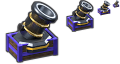
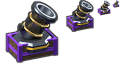
DA-ICONES : contre-relecture, 14 icones reprises en un passage (dont 4 encore fautives)
Corrigees : controleur (couvercle lisse, connecteur trapezoidal, un cable noir), kit Aileron (sorti de la caisse sur berceau,
nez releve), segment Torique (4 troncons separes a grand rayon), segment Heliaste (3 panneaux en Z, crochet magenta), violet du
Hall a 270 degres (#913CE6) sur les kits Aiguille, Cloche, Chanfrein et les technologies bay, bellwether, mortar.
ENCORE FAUTIVES (planche fo-logs/2026-11-04_DA-ICONES/controle-2.png) : module laser (faisceau toujours en cone saumon),
oscillateur (disque de quartz incline rendu sombre), Ecaille kit et technologie heavy (regression : flancs orange decouverts).
robotique_icones_test 258 OK ; icones.py --manifeste 0 ecart.

diff --git a/tools/render/pieces/robotique/rq_kits.py b/tools/render/pieces/robotique/rq_kits.py
@@ -61,27 +61,33 @@ def _plaque(p, n, t, dims, m, inclinaison=14.0):
     return o
 
 
-def sig_ecaille(L=5.0, R=1.35):
-    """LONG corps cuirassé (environ 2 fois plus long que large, critique : un dôme faisait une tortue), dos en dos d'âne : bandes
-    d'écailles d'acier et de cuivre, joints orange incandescents ENTRE les bandes, bloc de nez à l'avant (+x), crête à pointes."""
-    a, c = L / 2, R * 1.05
-    corps = SPH(1.0, 0, 0, 0, lum("joint_orange", force=0.9), seg=48, rings=24)
-    corps.scale = (a * 0.97, R * 0.97, c * 0.97)
-    nb, nk = 7, 7
+def sig_ecaille(L=5.2, R=1.35):
+    """Long corps cuirassé à FLANCS DROITS (section en superellipse), dos d'âne : bandes d'écailles d'ACIER dominantes, cuivre en
+    rappel, joints orange entre les bandes, CRÊTE d'écailles pointues sur l'échine, bloc de nez à l'avant (+x) (contre-relecture :
+    un pain cuivré à bandes, une grenade)."""
+    a, c, n, m = L / 2, R * 1.05, 4.0, 5.0
+    B(L * 0.9, 2 * R * 0.94, c * 1.85, 0, 0, -c * 0.92, lum("joint_orange", force=0.9), bev=0.45)
+
+    def ext(x):
+        return max(0.08, (1 - abs(x / a) ** m)) ** (1 / m)
+    nb, nk = 8, 8
+    mats = ("ecaille", "ecaille", "cuivre", "ecaille")
     for i in range(nb):
         x = -a + (i + 0.5) * (2 * a / nb)
-        f = math.sqrt(max(0.05, 1 - (x / a) ** 2))
-        m = ("ecaille", "cuivre", "ecaille_rouille")[i % 3]
+        f = ext(x)
         for k in range(nk):
-            phi = math.radians(12 + k * 26)
-            p = Vector((x, R * f * math.cos(phi), c * f * math.sin(phi)))
-            nv = Vector((x / a ** 2, p.y / R ** 2, p.z / c ** 2))
-            tv = Vector((0.0, -math.sin(phi), math.cos(phi)))
-            _plaque(p, nv, tv, (max(0.3, R * f * 0.47), (2 * a / nb) * 0.9, 0.14), m, inclinaison=12)
-        lathe([(0.2, 0.0), (0.0, 0.5)], x, 0, c * f + 0.08, "fonte", verts=4, lisse=False)
-    B(0.9, 1.7, 1.5, a - 0.25, 0, -0.55, "fonte", bev=0.16)
+            phi = math.radians(8 + k * (164 / (nk - 1)))
+            cs, sn = math.cos(phi), math.sin(phi)
+            y = R * f * math.copysign(abs(cs) ** (2 / n), cs)
+            z = c * f * abs(sn) ** (2 / n)
+            nv = Vector((0.0, math.copysign(abs(y / R) ** (n - 1), y) / R, abs(z / c) ** (n - 1) / c)).normalized()
+            tv = Vector((0.0, -nv.z, nv.y))
+            _plaque(Vector((x, y, z)), nv, tv, (0.62 * f + 0.12, (2 * a / nb) * 0.9, 0.15), mats[i % 4], inclinaison=12)
+        o = lathe([(0.3, 0.0), (0.0, 0.75)], x, 0, c * f + 0.05, "ecaille", verts=4, lisse=False, phase=0.785)
+        o.rotation_euler = (0, math.radians(-22), 0)
+    B(0.95, 1.9, 1.6, a - 0.15, 0, -0.75, "fonte", bev=0.16)
     for s in (-1, 1):
-        B(0.06, 0.34, 0.14, a + 0.21, s * 0.42, 0.25, lum("joint_orange", force=1.4), bev=0)
+        B(0.06, 0.34, 0.14, a + 0.34, s * 0.45, 0.2, lum("joint_orange", force=1.4), bev=0)
 
 
 def sig_bobineur():
@@ -369,7 +375,7 @@ KIT = {
     "bellwether": (1.2, 0.0, -0.9, (0, 0, 0)),
     "chamfer": (1.15, 0.0, -0.95, (0, 0, 0)),
     "trowel": (1.15, 0.0, -0.6, (0, 0, 0)),
-    "finback": (1.0, 0.0, -0.05, (0, -10, -24)),
+    "finback": (1.0, 0.0, 1.3, (0, -25, -24)),
     "levite": (1.1, 0.0, -0.7, (0, 0, 0)),
     "toroid": (0.95, 0.0, -0.45, (0, 0, 0)),
     "heliast": (1.0, 0.0, -0.75, (0, 0, -6)),
@@ -377,9 +383,21 @@ KIT = {
 }
 
 
+def berceau_aileron(H, dz, s):
+    """Berceau du kit Aileron : 2 montants sombres de la caisse au ventre de l'avion (nez relevé de 25°, lacet de -24°)."""
+    cp, sp = math.cos(math.radians(25)), math.sin(math.radians(25))
+    cl, sl = math.cos(math.radians(-24)), math.sin(math.radians(-24))
+    for x in (-0.7, 0.7):
+        px, haut = s * x * cp, H + dz + s * (x * sp - 0.5)
+        B(0.24, 0.24, haut - (H - 0.1), px * cl, px * sl, H - 0.1, "titane_sombre", bev=0.04)
+        B(0.6, 0.5, 0.12, px * cl, px * sl, haut - 0.06, "titane_sombre", bev=0.03)
+
+
 def kit(rid):
     s, dx, dz, rot = KIT[rid]
     H = caisse(FAMILLE[rid])
+    if rid == "finback":
+        berceau_aileron(H, dz, s)
     pivoter(capte(SIGNATURES[rid]), rot=rot, loc=(dx, 0, H + dz), s=s)
 
 
@@ -396,31 +414,35 @@ def anneau_levage(x, y, z):
 
 
 def seg_torique():
-    """Quart d'anneau du Torique, vu de 3/4 au-dessus (critique : un coude de tuyau noir) : 4 tronçons à cuivre dominant (cuivre,
-    noir, cuivre, cuivre), bagues roses lumineuses aux joints, brides boulonnées aux 2 bouts, anneau de levage magenta."""
-    R, a0, a1, rt = 5.0, math.radians(-36), math.radians(36), 0.75
-    cyc = ("cuivre", "noir_mat", "cuivre", "cuivre")
-    rose = lum("rose_tore", force=1.3)
+    """Un cinquième du tore du Torique, à grand rayon (courbure douce), vu de 3/4 par-dessus : 4 tronçons SÉPARÉS, courts et épais
+    (cuivre, noir, rose allumé, cuivre), joints visibles sur une âme sombre, brides boulonnées aux 2 bouts, crochet magenta au
+    milieu (contre-relecture : un coude de tuyau)."""
+    R, a0, a1, rt = 5.5, math.radians(-36), math.radians(36), 0.95
+    cyc = ("cuivre", "noir_mat", lum("rose_tore", force=1.35), "cuivre")
     n = len(cyc)
-    L = R * (a1 - a0) / n
-    for k in range(n):
-        a = a0 + (k + 0.5) * (a1 - a0) / n
-        P.S.cylinder(rt, L * 0.96, (R * math.cos(a) - R, R * math.sin(a), rt), P.mat(cyc[k]), verts=40,
-                     rot=(0, math.radians(90), a + math.pi / 2), bevel_w=0.04)
+    pas = (a1 - a0) / n
     for k in range(1, n):
-        a = a0 + k * (a1 - a0) / n
-        TOR(rt + 0.03, 0.09, R * math.cos(a) - R, R * math.sin(a), rt, rose, rot=(0, 90, math.degrees(a) + 90), minor=10)
+        a = a0 + k * pas
+        P.S.cylinder(rt * 0.55, R * pas * 0.4, (R * math.cos(a) - R, R * math.sin(a), rt), P.mat("fonte"), verts=24,
+                     rot=(0, math.radians(90), a + math.pi / 2), bevel_w=0.02)
+    for k in range(n):
+        a = a0 + (k + 0.5) * pas
+        mat = cyc[k] if not isinstance(cyc[k], str) else P.mat(cyc[k])
+        P.S.cylinder(rt, R * pas * 0.78, (R * math.cos(a) - R, R * math.sin(a), rt), mat, verts=40,
+                     rot=(0, math.radians(90), a + math.pi / 2), bevel_w=0.06)
     for a, sens in ((a0, -1), (a1, 1)):
         cx, cy = R * math.cos(a) - R, R * math.sin(a)
         t = Vector((-math.sin(a), math.cos(a), 0.0)) * sens
         u = Vector((math.cos(a), math.sin(a), 0.0))
-        P.S.cylinder(rt + 0.32, 0.24, (cx, cy, rt), P.mat("fonte"), verts=40, rot=(0, math.radians(90), a + math.pi / 2), bevel_w=0.04)
+        P.S.cylinder(rt + 0.3, 0.26, (cx + t.x * 0.05, cy + t.y * 0.05, rt), P.mat("fonte"), verts=40,
+                     rot=(0, math.radians(90), a + math.pi / 2), bevel_w=0.04)
         for j in range(8):
             b = 2 * math.pi * j / 8
-            q = Vector((cx, cy, rt)) + (u * math.cos(b) + Vector((0, 0, 1)) * math.sin(b)) * (rt + 0.18) + t * 0.14
-            SPH(0.09, q.x, q.y, q.z, "vis", seg=10, rings=6)
-    anneau_levage(0.0, 0, 2 * rt - 0.05)
-    pivoter(list(P.S.piece_objects()), rot=(0, 0, 45))
+            q = Vector((cx, cy, rt)) + (u * math.cos(b) + Vector((0, 0, 1)) * math.sin(b)) * (rt + 0.16) + t * 0.2
+            SPH(0.1, q.x, q.y, q.z, "vis", seg=10, rings=6)
+    TOR(rt * 0.62, 0.14, 0.0, 0.0, rt, "peint_magenta", rot=(0, 90, 90), minor=10)
+    anneau_levage(0.0, 0.0, rt * 1.55)
+    pivoter(list(P.S.piece_objects()), rot=(0, 0, 80))
 
 
 def panneau_epais(w, d, ep=0.22):
@@ -436,8 +458,8 @@ def panneau_epais(w, d, ep=0.22):
 def seg_heliaste():
     """Aile solaire repliée en ACCORDÉON (critique : un panneau plat se confondait avec le panneau solaire vanilla) : 3 panneaux
     épais en zigzag (silhouette en W), charnières d'or, longeron d'or dessous, anneau de levage magenta sur le longeron."""
-    d, prof, ang = 1.75, 3.0, math.radians(38)
-    pts = [(-2.1, 0.75)]
+    d, prof, ang = 1.7, 2.4, math.radians(46)
+    pts = [(-2.0, 0.75)]
     for i in range(3):
         sgn = 1 if i % 2 == 0 else -1
         x0, z0 = pts[-1]
@@ -448,12 +470,12 @@ def seg_heliaste():
         pivoter(capte(panneau_epais, d, prof), rot=(0, -tilt, 0), loc=((x0 + x1) / 2, 0, (z0 + z1) / 2))
     for (x, z) in pts[1:3]:
         CYX(0.15, prof + 0.15, x, 0, z + 0.1, "or", axe="y", verts=16)
-    xa, xb = pts[0][0] - 0.2, pts[-1][0] + 0.2
+    xa, xb = pts[0][0] - 0.3, pts[-1][0] + 1.3
     B(xb - xa, 0.5, 0.42, (xa + xb) / 2, 0, -0.1, "or", bev=0.06)
     for (x, z) in (pts[0], pts[2]):
         B(0.24, 0.24, z, x, 0, 0.0, "or_sombre", bev=0.03)
-    anneau_levage(xb - 0.5, -0.1, 0.32)
-    pivoter(list(P.S.piece_objects()), rot=(0, 0, 22))
+    anneau_levage(xb - 0.55, 0.0, 0.32)
+    pivoter(list(P.S.piece_objects()), rot=(0, 0, 8))
 
 
 def seg_couronne():

diff --git a/tools/render/pieces/robotique/rq_pieces.py b/tools/render/pieces/robotique/rq_pieces.py
@@ -131,25 +131,27 @@ def ic_optical_sensor():
 
 
 def controleur():
-    """Boîtier de commande (REFAIT, critique : la carte verte se confondait avec la carte imprimée et la carte mère) : boîte
-    plate en alu à ailettes, gros connecteur multibroche noir en façade, 2 voyants, court faisceau de 3 fils (écho du servo)."""
+    """Boîtier de commande : boîte plate en alu à COUVERCLE LISSE (plaque d'étiquette en relief), pattes de fixation, GROS
+    connecteur noir trapézoïdal multibroche en façade d'où sort UN câble noir épais, 2 voyants (contre-relecture : les ailettes
+    et les 3 fils colorés le confondaient avec le radiateur et le commutateur réseau du calcul)."""
     B(4.4, 3.0, 1.25, 0, 0, 0, "alu_brosse", bev=0.16)
-    for k in range(7):
-        B(0.18, 2.3, 0.36, -1.5 + k * 0.5, 0.25, 1.25, "alu_sombre", bev=0.03)
+    B(2.6, 1.5, 0.07, -0.3, 0.35, 1.25, "etiquette", bev=0.02)
+    for k in range(3):
+        B(1.8 - k * 0.4, 0.1, 0.02, -0.55 + k * 0.2, 0.62 - k * 0.27, 1.32, "marquage", bev=0)
     for sx in (-1, 1):
         B(0.75, 3.4, 0.16, sx * 2.45, 0, 0, "alu_sombre", bev=0.03)
         for sy in (-1, 1):
             CY(0.13, 0.2, sx * 2.55, sy * 1.35, 0.0, "fond_noir", verts=12, bev=0)
-    B(2.5, 0.6, 0.9, -0.55, -1.7, 0.16, "noir_mat", bev=0.08)
-    B(2.1, 0.08, 0.6, -0.55, -2.0, 0.31, "fond_noir", bev=0)
-    for row in range(2):
-        for k in range(7):
-            B(0.13, 0.06, 0.13, -1.37 + k * 0.27, -2.04, 0.41 + row * 0.24, "or", bev=0)
-    B(0.34, 0.12, 0.34, 1.15, -1.53, 0.5, "voyant_vert", bev=0.03)
-    B(0.34, 0.12, 0.34, 1.7, -1.53, 0.5, "voyant_ambre", bev=0.03)
-    B(1.2, 0.04, 0.16, 1.42, -1.52, 0.95, "marquage", bev=0)
-    for i, c in enumerate(("cable_rouge", "cable_gris", "cable_jaune")):
-        tube([(-1.3 + i * 0.4, -2.05, 0.62), (-1.45 + i * 0.4, -2.7, 0.55), (-2.0 + i * 0.35, -3.1, 0.1)], 0.1, c)
+    trap = [(-1.35, 0.0), (1.35, 0.0), (1.1, 0.95), (-1.1, 0.95)]
+    o = prisme("connecteur", trap, 0.62, "noir_mat", z=1.5, bev=0.06)
+    o.rotation_euler = (math.radians(90), 0, 0)
+    o.location = (-0.55, 0, 0.16)
+    for row, n in ((0, 8), (1, 7)):
+        for k in range(n):
+            B(0.13, 0.06, 0.13, -0.55 - (n - 1) * 0.135 + k * 0.27, -2.14, 0.38 + row * 0.32, "or", bev=0)
+    B(0.34, 0.12, 0.34, 1.2, -1.53, 0.5, "voyant_vert", bev=0.03)
+    B(0.34, 0.12, 0.34, 1.75, -1.53, 0.5, "voyant_ambre", bev=0.03)
+    tube([(-1.95, -1.85, 0.55), (-2.3, -2.6, 0.4), (-2.6, -3.25, 0.05)], 0.2, "cable_gris", res=8)
 
 
 def ic_controller():
@@ -221,8 +223,10 @@ def ic_ndyag_rod():
     pivoter(capte(barreau), rot=(0, -10, 30))
 
 
-def tete_laser(faisceau=1.6):
-    """Module laser (axe x, nez vers +x) : culasse à ailettes, 2 bobines de cuivre, nez chromé, lentille rouge, faisceau rouge."""
+def tete_laser(faisceau=1.6, rayon0=0.38, nez=1.15, lueur=False):
+    """Module laser (axe x, nez vers +x) : culasse à ailettes, 2 bobines de cuivre, nez chromé, lentille rouge, faisceau rouge.
+    lueur : faisceau fin et saturé avec une gaine translucide (icône de l'objet ; contre-relecture : le cône opaque faisait une
+    pointe de crayon) ; par défaut, celui de la technologie « Entraînement magnétique » (VALIDE)."""
     CYX(1.05, 1.6, -1.9, 0, 0, "noir_mat", verts=40, bev=0.04)
     for k in range(7):
         CYX(1.3, 0.08, -2.55 + k * 0.2, 0, 0, "alu_brosse", verts=40, bev=0.01)
@@ -231,18 +235,28 @@ def tete_laser(faisceau=1.6):
         CYX(1.0, 0.7, x, 0, 0, "cuivre", verts=40, bev=0.03)
         for k in range(5):
             TOR(1.0, 0.04, x - 0.28 + k * 0.14, 0, 0, "or_sombre", rot=(0, 90, 0), minor=8)
-    lathe([(0.85, 0), (0.85, 0.3), (0.62, 0.9), (0.55, 1.15), (0, 1.15)], 1.05, 0, 0, "chrome", verts=40).rotation_euler = (0, math.radians(90), 0)
-    CYX(0.6, 0.06, 2.22, 0, 0, lum("rouge_laser", force=1.5), verts=32, bev=0)
-    if faisceau > 0:
+    k = nez / 1.15
+    lathe([(0.85, 0), (0.85, 0.3 * k), (0.62, 0.9 * k), (0.55, 1.15 * k), (0, 1.15 * k)], 1.05, 0, 0, "chrome", verts=40).rotation_euler = (0, math.radians(90), 0)
+    xl = 1.05 + nez
+    CYX(0.6, 0.06, xl + 0.02, 0, 0, lum("rouge_laser", force=1.5), verts=32, bev=0)
+    if faisceau > 0 and not lueur:
         rayon = lum("rouge_laser", mode="z", force=1.6, z0=0.0, z1=faisceau)
-        o = lathe([(0.38, 0.0), (0.2, faisceau * 0.65), (0.05, faisceau)], 2.25, 0, 0, rayon, verts=16)
+        o = lathe([(rayon0, 0.0), (rayon0 * 0.2 / 0.38, faisceau * 0.65), (rayon0 * 0.05 / 0.38, faisceau)], xl + 0.05, 0, 0, rayon, verts=16)
         o.rotation_euler = (0, math.radians(90), 0)
+    elif faisceau > 0:
+        coeur = lum("faisceau", mode="z", z0=faisceau, z1=0.0)
+        o = lathe([(rayon0, 0.0), (rayon0 * 0.6, faisceau * 0.7), (0.02, faisceau)], xl + 0.05, 0, 0, coeur, verts=16)
+        o.rotation_euler = (0, math.radians(90), 0)
+        gaine = P.mat_voile("gaine_laser", (1.0, 0.06, 0.03), 0.55, 5.0)
+        g = lathe([(rayon0 * 2.6, 0.0), (rayon0 * 1.6, faisceau * 0.7), (0.05, faisceau)], xl + 0.05, 0, 0, gaine, verts=24)
+        g.rotation_euler = (0, math.radians(90), 0)
+        g.visible_shadow = False
     B(2.6, 1.2, 0.3, -0.6, 0, -1.25, "alu_sombre", bev=0.05)
 
 
 def ic_laser_module():
     """Tête de PROFIL sur la diagonale (critique : vue dans l'axe, elle se confondait avec le capteur optique)."""
-    pivoter(capte(tete_laser), rot=(0, 14, -62))
+    pivoter(capte(tete_laser, 2.8, 0.17, 0.7, True), rot=(0, 14, -62))
 
 
 # ------------------------------------------------------------------------------------------------------------------
@@ -275,8 +289,9 @@ def ic_printed_circuit_board():
 
 
 def oscillateur():
-    """Boîtier HC-49 (REFAIT, critique : gris foncé, il se lisait comme une prise ou une enceinte) : métal ARGENT brillant, dessus
-    arrondi, fenêtre sur un disque de quartz cyan lumineux plein, socle sombre, 2 longues pattes d'or fines."""
+    """Boîtier HC-49 en ARGENT BROSSÉ clair, dessus arrondi, socle sombre, 2 longues pattes d'or fines ; dans la fenêtre, un DISQUE
+    de quartz cyan incliné (sa tranche, plus sombre, se voit) tenu par 2 fils de contact fins (contre-relecture : un aplat pâle
+    faisait une LED)."""
     W, H, r, ep = 2.8, 3.0, 1.0, 1.15
     pts = [(-W / 2, 0.0), (W / 2, 0.0)]
     for k in range(9):
@@ -290,8 +305,13 @@ def oscillateur():
     B(W + 0.25, ep + 0.25, 0.32, 0, 0, -0.32, "noir_mat", bev=0.05)
     for sx in (-1, 1):
         CY(0.07, 2.3, sx * 0.75, 0, -2.6, "or", verts=10)
-    TOR(0.98, 0.08, 0, -ep / 2 - 0.03, 1.55, "chrome", rot=(90, 0, 0), minor=10)
-    CYX(0.92, 0.08, 0, -ep / 2 - 0.03, 1.55, lum("quartz", force=1.15), axe="y", verts=48, bev=0)
+    zf, yf = 1.55, -ep / 2
+    TOR(0.98, 0.08, 0, yf - 0.03, zf, "chrome", rot=(90, 0, 0), minor=10)
+    CYX(0.94, 0.04, 0, yf - 0.01, zf, "fond_noir", axe="y", verts=48, bev=0)
+    d = CYX(0.68, 0.14, 0, yf - 0.2, zf, lum("quartz", force=1.2), axe="y", verts=48, bev=0.02)
+    d.rotation_euler = (math.radians(90 + 28), 0, math.radians(30))
+    for sx in (-1, 1):
+        tube([(sx * 0.5, yf - 0.18, zf - 0.35), (sx * 0.58, yf - 0.1, zf - 0.7), (sx * 0.62, yf - 0.03, zf - 0.88)], 0.035, "or", res=6)
 
 
 def ic_crystal_oscillator():

diff --git a/tools/render/pieces/robotique/rq_couleurs.py b/tools/render/pieces/robotique/rq_couleurs.py
@@ -11,7 +11,7 @@ FAMILLES = ("ambre", "violet", "bleu", "magenta")
 MAT.update({
     # familles : peinture des cornières, sangles et plateaux
     "peint_ambre": dict(rgb=lin("#E3901E"), rough=0.30, met=0.45, grain=0.07, creux=0.6, arete=0.8, bosse=0.06),
-    "peint_violet": dict(rgb=lin("#6248E6"), rough=0.30, met=0.45, grain=0.07, creux=0.6, arete=0.8, bosse=0.06),
+    "peint_violet": dict(rgb=lin("#913CE6"), rough=0.30, met=0.45, grain=0.07, creux=0.6, arete=0.8, bosse=0.06),
     "peint_bleu": dict(rgb=lin("#1F7BDC"), rough=0.30, met=0.45, grain=0.07, creux=0.6, arete=0.8, bosse=0.06),
     "peint_magenta": dict(rgb=lin("#EE3F86"), rough=0.30, met=0.45, grain=0.07, creux=0.6, arete=0.8, bosse=0.06),
     # caisse de transport
@@ -43,13 +43,13 @@ MAT.update({
     "miroir": dict(rgb=(0.92, 0.93, 0.95), rough=0.30, met=1.0, grain=0.01, creux=0.2, arete=0.2, bosse=0.0),
     "ruban_sombre": dict(rgb=(0.10, 0.10, 0.12), rough=0.30, met=0.6, grain=0.04, creux=0.4, arete=0.6, bosse=0.02),
     "or_mur": dict(rgb=lin("#E2A83A"), rough=0.32, met=0.55, grain=0.06, creux=0.6, arete=0.6, bosse=0.06),
-    "argent_hc49": dict(rgb=(0.86, 0.87, 0.89), rough=0.10, met=1.0, grain=0.03, creux=0.5, arete=0.3, bosse=0.03),
+    "argent_hc49": dict(rgb=(0.90, 0.91, 0.93), rough=0.34, met=0.9, grain=0.10, gs=140.0, creux=0.5, arete=0.4, bosse=0.03),
     "moyeu_bleu": dict(rgb=lin("#1E5FB8"), rough=0.28, met=0.5, grain=0.05, creux=0.5, arete=0.6, bosse=0.03),
 })
 
 LUM.update({
     "fam_ambre": (lin("#FFD884"), lin("#E07A10"), 1.15),
-    "fam_violet": (lin("#C8C4FF"), lin("#5638F0"), 1.15),
+    "fam_violet": (lin("#DCC0FF"), lin("#8A34E8"), 1.15),
     "fam_bleu": (lin("#B4E2FF"), lin("#1A70E0"), 1.15),
     "fam_magenta": (lin("#FFB4D2"), lin("#F02A78"), 1.15),
     "joint_orange": (lin("#FFB060"), lin("#E04808"), 1.2),
@@ -58,6 +58,7 @@ LUM.update({
     "cyan_levite": (lin("#C8FAFF"), lin("#10A8D8"), 1.2),
     "rose_tore": (lin("#FFB0F0"), lin("#E020B0"), 1.2),
     "rouge_laser": (lin("#FFB090"), lin("#E01808"), 1.3),
+    "faisceau": (lin("#FF5038"), lin("#B00404"), 2.2),
     "lilas_yag": (lin("#F4C0FF"), lin("#5A1488"), 1.05),
     "quartz": (lin("#D8FAFF"), lin("#38A8D8"), 0.9),
     "vitrail": (lin("#E08A20"), lin("#5A1E02"), 0.6),
